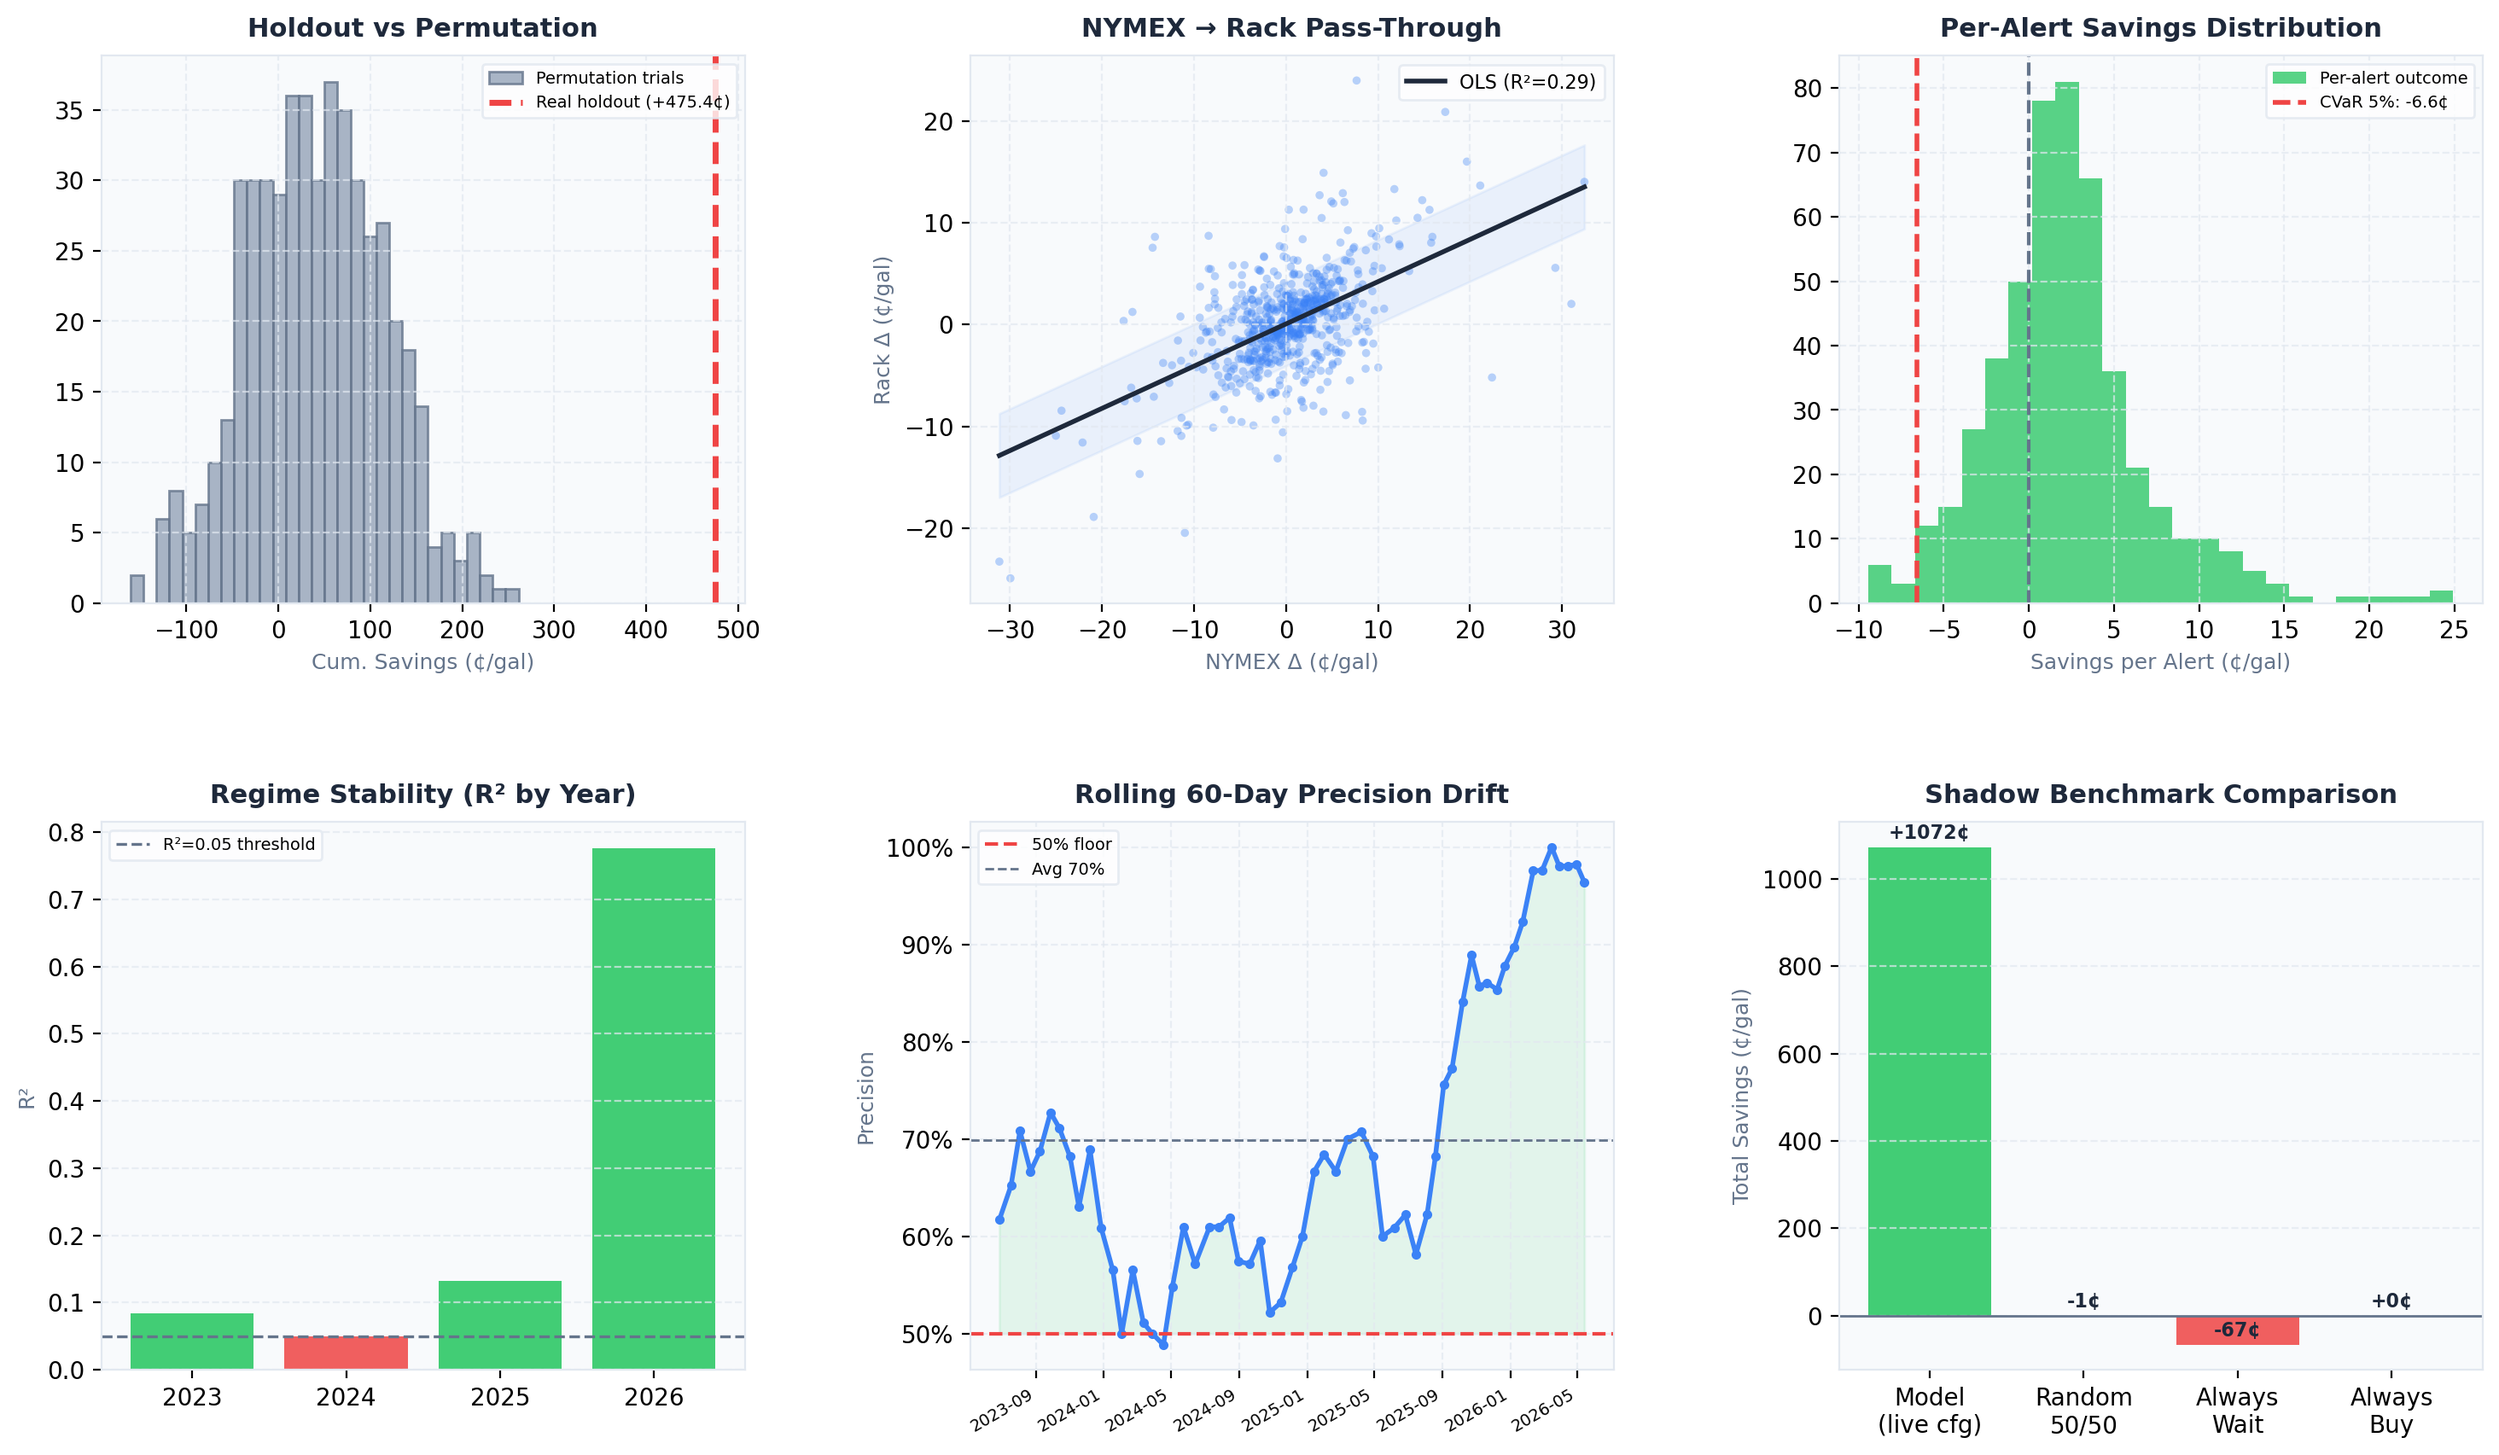
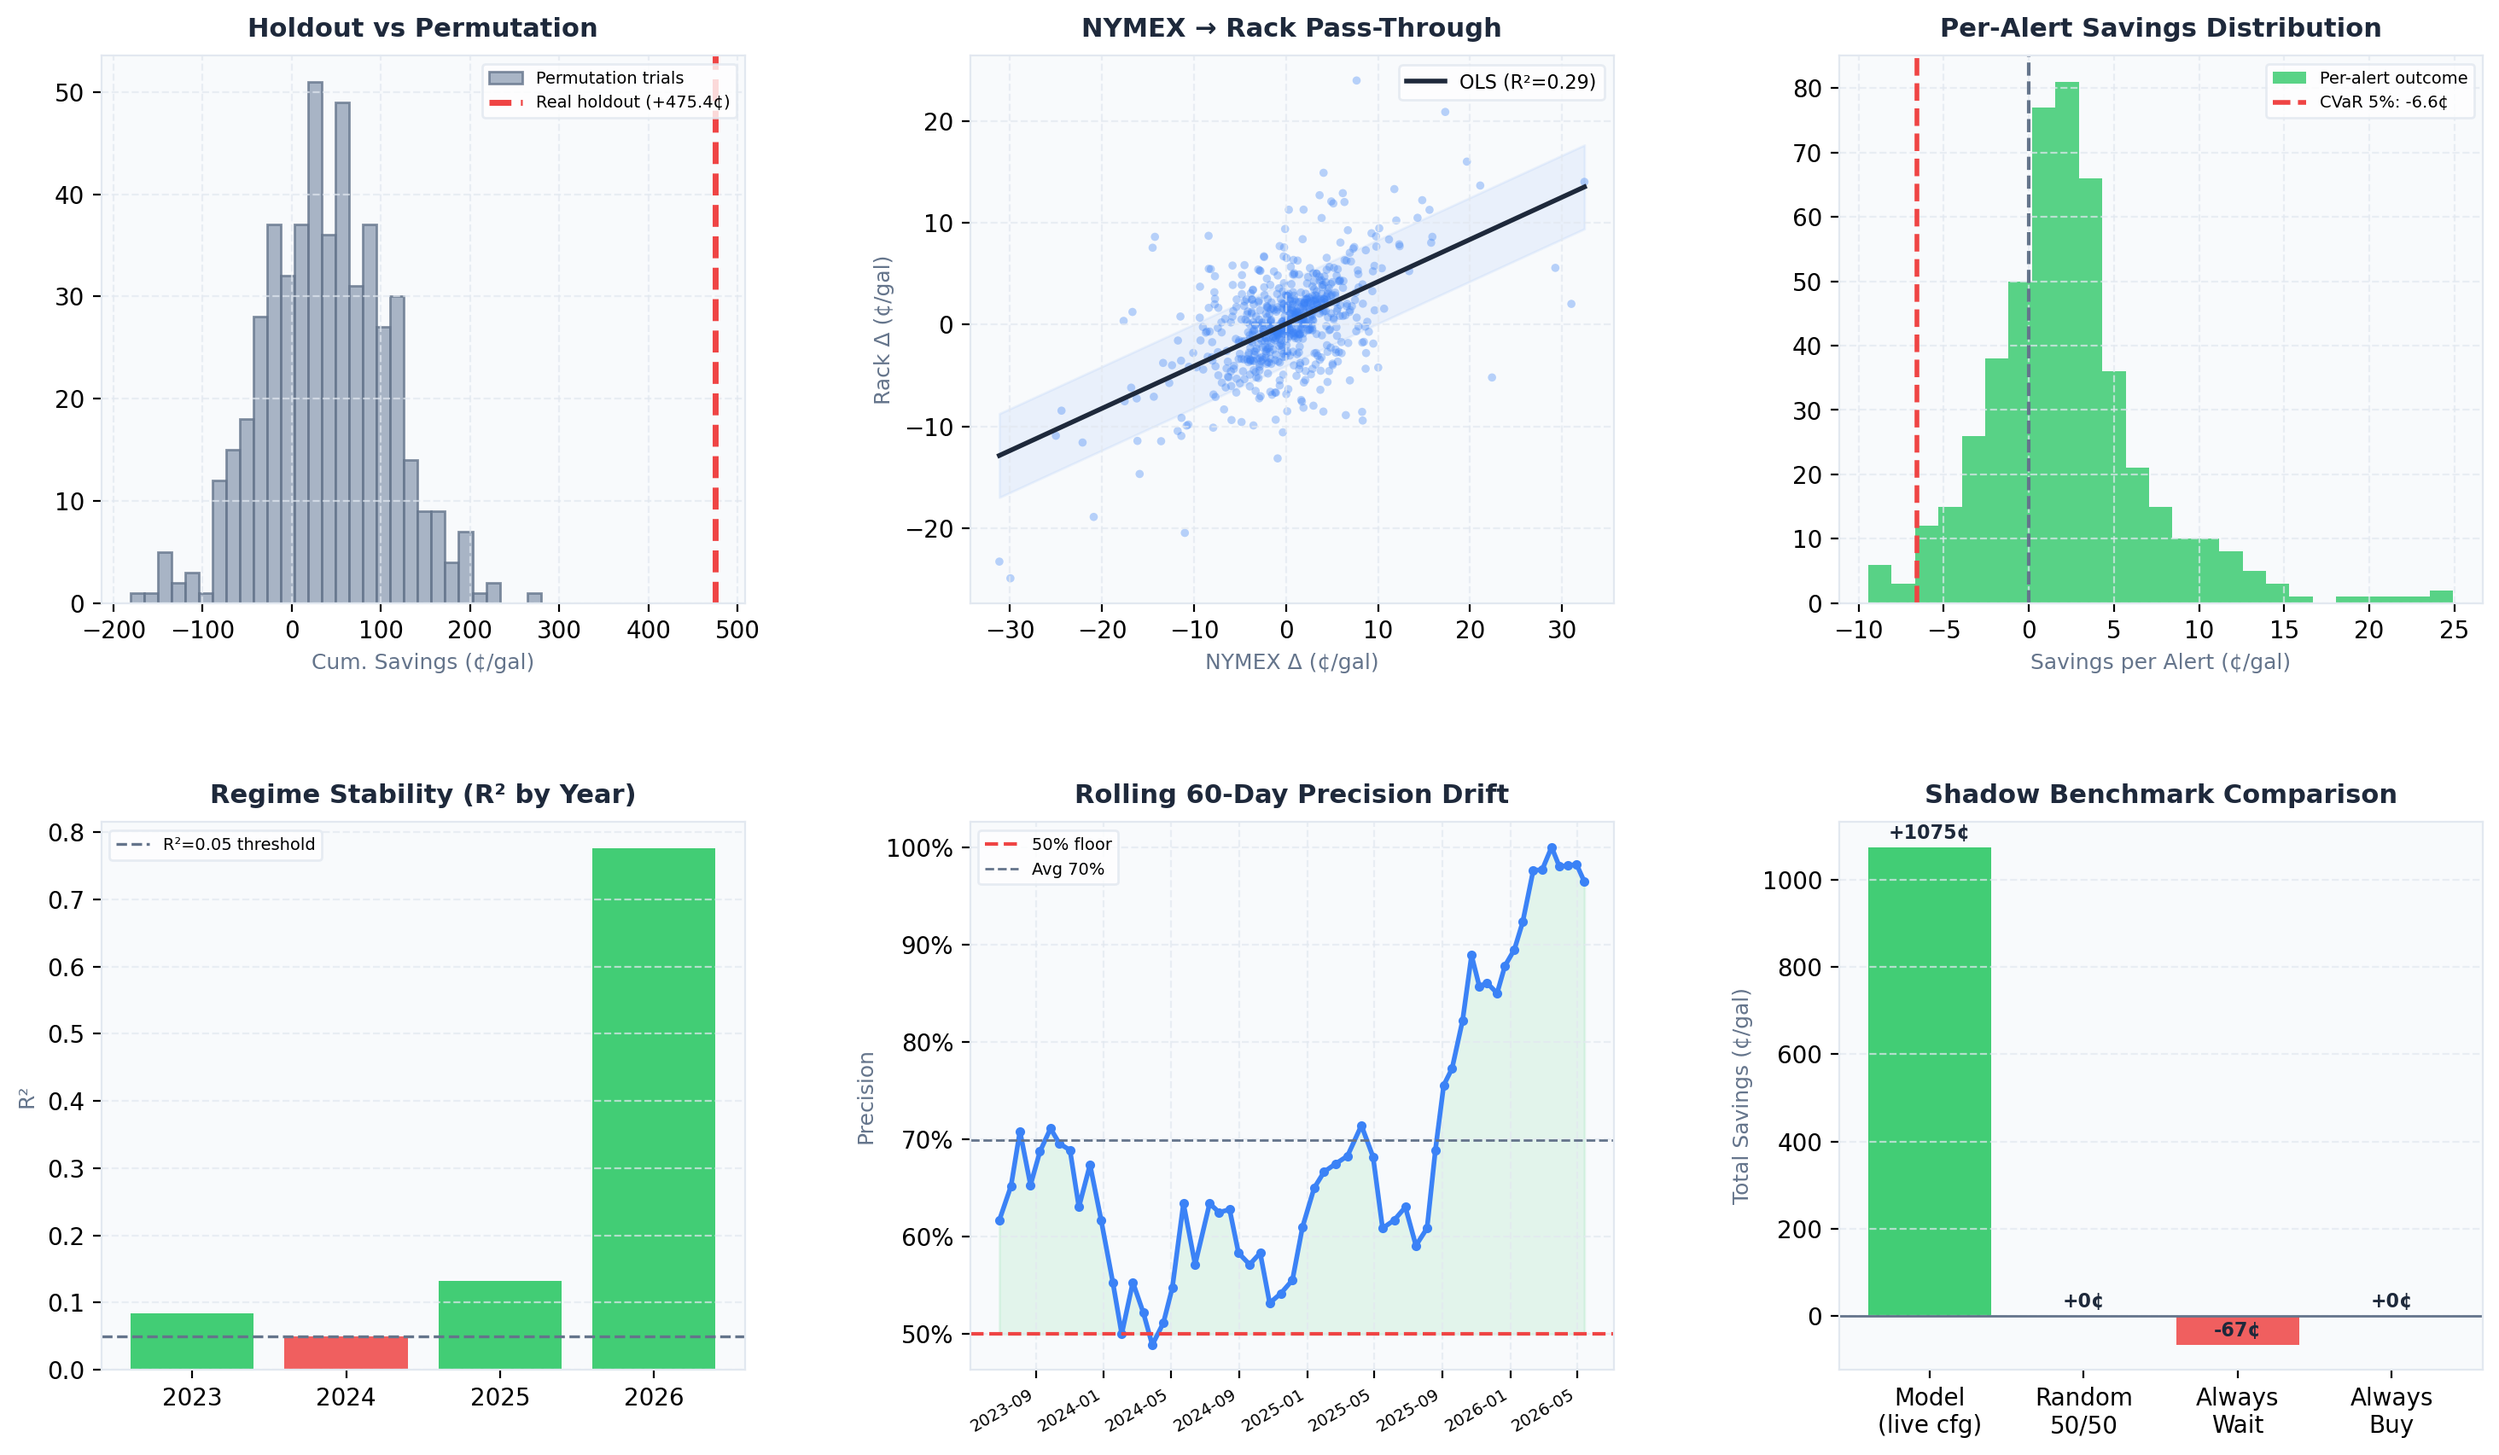
Optimize backtest delta calculations to prevent boundary loss during train/test slicing

diff --git a/backtest.py b/backtest.py
@@ -59,7 +59,12 @@ def get_clean_deltas(df, nymex_col, rack_col):
     Cleans and computes the daily price changes in cents.
     Applies Monday and roll-period filters.
     """
-    df_clean = df.dropna(subset=[nymex_col, rack_col]).copy()
+    if 'delta_nymex' not in df.columns or 'delta_rack' not in df.columns:
+        df = df.copy()
+        df['delta_nymex'] = df[nymex_col].diff() * 100
+        df['delta_rack'] = df[rack_col].diff() * 100
+
+    df_clean = df.dropna(subset=[nymex_col, rack_col, 'delta_nymex', 'delta_rack']).copy()
     
     if not pd.api.types.is_datetime64_any_dtype(df_clean.get('date', pd.Series(dtype='object'))):
         try:
@@ -75,11 +80,7 @@ def get_clean_deltas(df, nymex_col, rack_col):
     if 'date' in df_clean.columns and pd.api.types.is_datetime64_any_dtype(df_clean['date']):
         df_clean = df_clean[df_clean['date'].dt.day > 5]
 
-    delta_nymex = df_clean[nymex_col].diff() * 100
-    delta_rack  = df_clean[rack_col].diff() * 100
-
-    valid = ~(delta_nymex.isna() | delta_rack.isna())
-    return delta_nymex[valid], delta_rack[valid]
+    return df_clean['delta_nymex'], df_clean['delta_rack']
 
 def train_thresholds(delta_nymex, delta_rack, Hp, Dp):
     """
@@ -133,9 +134,9 @@ def simulate_walk_forward(df, nymex_col, rack_col, W, Hp, Dp):
         train_nymex, train_rack = get_clean_deltas(df_train, nymex_col, rack_col)
         hike_thresh, drop_thresh = train_thresholds(train_nymex, train_rack, Hp, Dp)
 
-        # Evaluate on out-of-sample test window
-        test_nymex = df_test[nymex_col].diff() * 100
-        test_rack = df_test[rack_col].diff() * 100
+        # Evaluate on out-of-sample test window using pre-computed deltas to avoid boundary loss
+        test_nymex = df_test['delta_nymex']
+        test_rack = df_test['delta_rack']
 
         savings = 0.0
         for i in range(len(df_test)):
@@ -158,6 +159,11 @@ def run_optimization(df, nymex_col, rack_col, prefix, cfg):
     using median out-of-sample savings, trains final thresholds,
     and returns metrics.
     """
+    # Pre-compute deltas on full history to prevent out-of-sample window boundary loss
+    df = df.copy()
+    df['delta_nymex'] = df[nymex_col].diff() * 100
+    df['delta_rack'] = df[rack_col].diff() * 100
+
     windows = [120, 180, 240]
     hike_percentiles = [15, 20]
     drop_percentiles = [80, 85]

diff --git a/verify_statistics.py b/verify_statistics.py
@@ -65,8 +65,12 @@ def run_simulation(df_slice, hike_thresh, drop_thresh, nymex_col, rack_col):
     - BUY_NOW (HIKE signal): buy at rack[T-1], rack goes up → saved = +delta_rack[T]
     - WAIT    (DROP signal): wait, rack goes down → saved = -delta_rack[T] (negative rack move = savings)
     """
-    delta_nymex = df_slice[nymex_col].diff() * 100
-    delta_rack  = df_slice[rack_col].diff() * 100   # same-night direction (CORRECTED)
+    if 'delta_nymex' in df_slice.columns and 'delta_rack' in df_slice.columns:
+        delta_nymex = df_slice['delta_nymex']
+        delta_rack  = df_slice['delta_rack']
+    else:
+        delta_nymex = df_slice[nymex_col].diff() * 100
+        delta_rack  = df_slice[rack_col].diff() * 100   # same-night direction (CORRECTED)
 
     savings = 0.0
     correct = 0
@@ -110,6 +114,8 @@ def main():
     holdout_days = 60
 
     df_clean = df.dropna(subset=['nymex_rb', 'rack_u']).copy().reset_index(drop=True)
+    df_clean['delta_nymex'] = df_clean['nymex_rb'].diff() * 100
+    df_clean['delta_rack'] = df_clean['rack_u'].diff() * 100
 
     if len(df_clean) <= holdout_days + 30:
         print("Warning: Insufficient data for 60-day holdout test. Skipping.")
@@ -134,8 +140,8 @@ def main():
         perm_savings    = []
         perm_precisions = []
 
-        test_delta_nymex = df_test['nymex_rb'].diff() * 100
-        test_delta_rack  = df_test['rack_u'].diff() * 100   # same-night (CORRECTED)
+        test_delta_nymex = df_test['delta_nymex']
+        test_delta_rack  = df_test['delta_rack']
 
         valid_mask   = ~(test_delta_nymex.isna() | test_delta_rack.isna())
         valid_nymex  = test_delta_nymex[valid_mask].values
